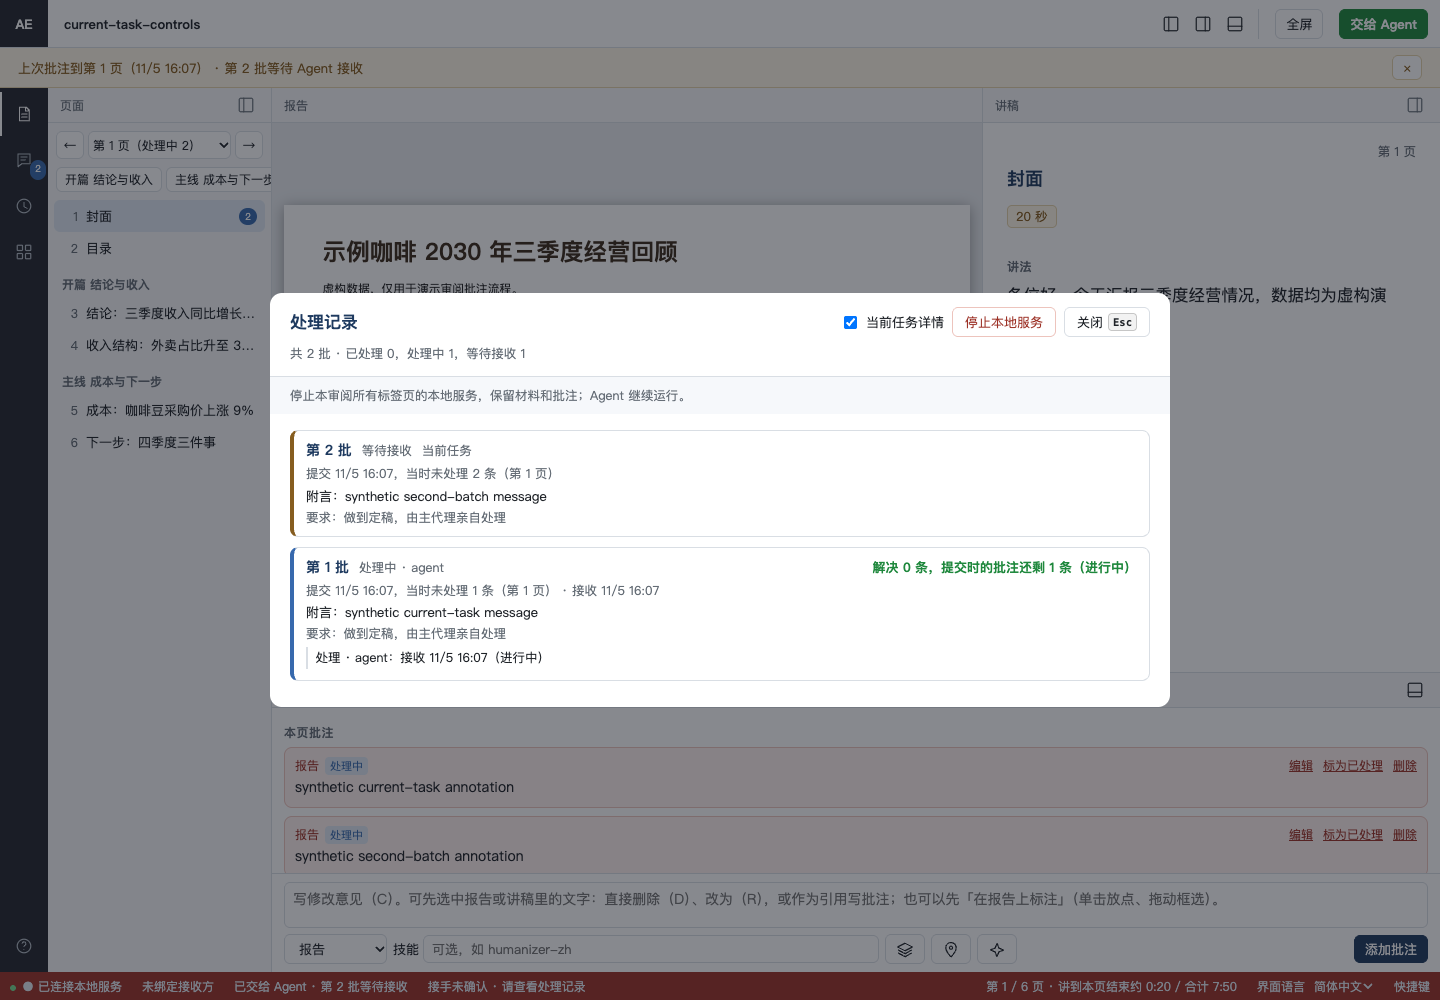
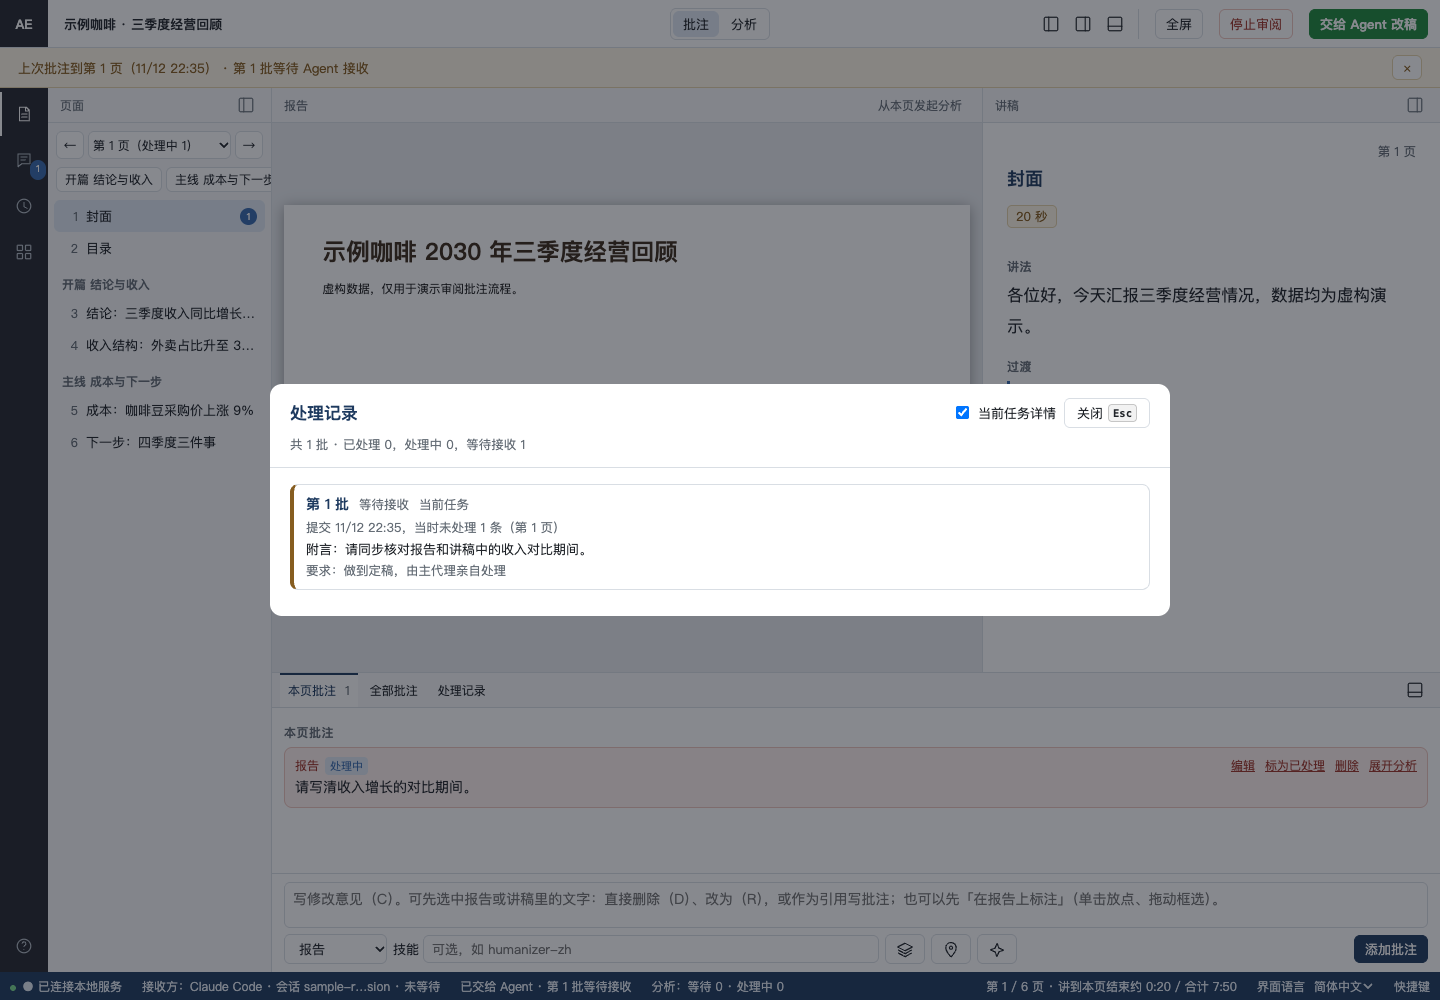
docs: 更新停止审阅的双语截图与说明

diff --git a/README.md b/README.md
@@ -40,7 +40,7 @@ This README follows `main`; automatic updates install only stable release tags. 
 - **Hand a batch to the agent for revision.** Annotations save automatically. Bind a receiving session and explicitly submit a batch; the agent revises both documents, rebuilds the page and records the result for each annotation.
 - **Check and review as needed.** Request a full consistency check for figures, metric definitions and wording. Use a draft followed by review, or stop after the draft and let the reviewer decide when to finalize.
 
-<p align="center"><img src="docs/assets/receiver.en.png" alt="Synthetic annotation page: report and speaker notes, text and position annotations, bottom composer and receiving session status" width="92%"><br><sub>Attach changes to their text and position, then hand a batch to the agent. All material shown is synthetic.</sub></p>
+<p align="center"><img src="docs/assets/receiver.en.png" alt="Synthetic review page showing the report, speaker notes, annotation, receiving session and top-bar Stop review button" width="92%"><br><sub>Attach changes to their text and position, then hand a batch to the agent. All material shown is synthetic.</sub></p>
 
 ### Analyze: work through the question before revising
 
@@ -215,7 +215,7 @@ In service mode, rebuilding the review page shows a "Review page updated" banner
 
 ### Review overview and archiving
 
-<p align="center"><img src="docs/assets/overview.en.png" alt="Synthetic review overview: status groups and a detail pane with the report summary, purpose, audience, core questions and start action" width="92%"></p>
+<p align="center"><img src="docs/assets/overview.en.png" alt="Synthetic review overview with a stop button for the selected review and a stop-all button for three running reviews in this workspace" width="92%"></p>
 
 Choose "Review overview" on any running review page, or open `/#overview` at its address. The default scope is "This workspace"; switch to "All on this machine" to see other registered reviews. The workspace is the review's git repository root, or its parent directory when it is outside a git repository. Paths are relative; other workspace paths start with `~` or show only the review name. If no review is running, start one with `serve.py <review-id>` first.
 
@@ -323,7 +323,7 @@ Before an agent runs a repair with `--purge`, `--forget-stale`, `--stop-orphans`
 | No cross-site forged writes | Write requests must come from the same origin as the page and use a JSON content type |
 | Only what is needed is exposed | Only `index.html` and the `/api/*` endpoints are served; no other file in the review directory is reachable through the server |
 | No third-party Python packages | The runtime uses the Python standard library only; the font check calls the system tools `fc-list` and `pdffonts` and explains how to install them if they are missing |
-| Network access | The review server makes no network requests; the updater only contacts the installation's Git remote, sending no review data or telemetry. External resources in reports are not loaded; local images and fonts are embedded in the page |
+| Network access | Review servers coordinate through the local loopback interface. The updater contacts the installation's Git remote without sending review data or telemetry. The page embeds local images and fonts and blocks external report resources |
 | Your data stays local | Annotations and the review page live in the review directory you choose; the local review ledger `~/.annotation-everything/` records only review IDs, directory paths and ports |
 
 Full validation during PR review includes `serve.py check` to verify these constraints; server security checks are deferred to that stage during implementation.
